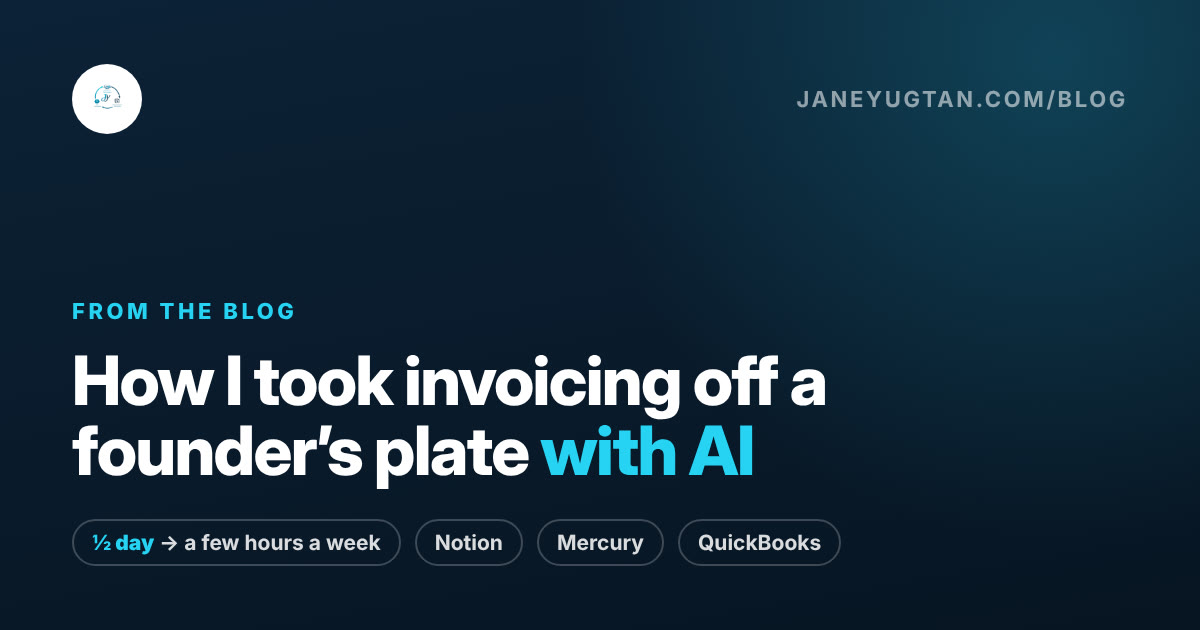
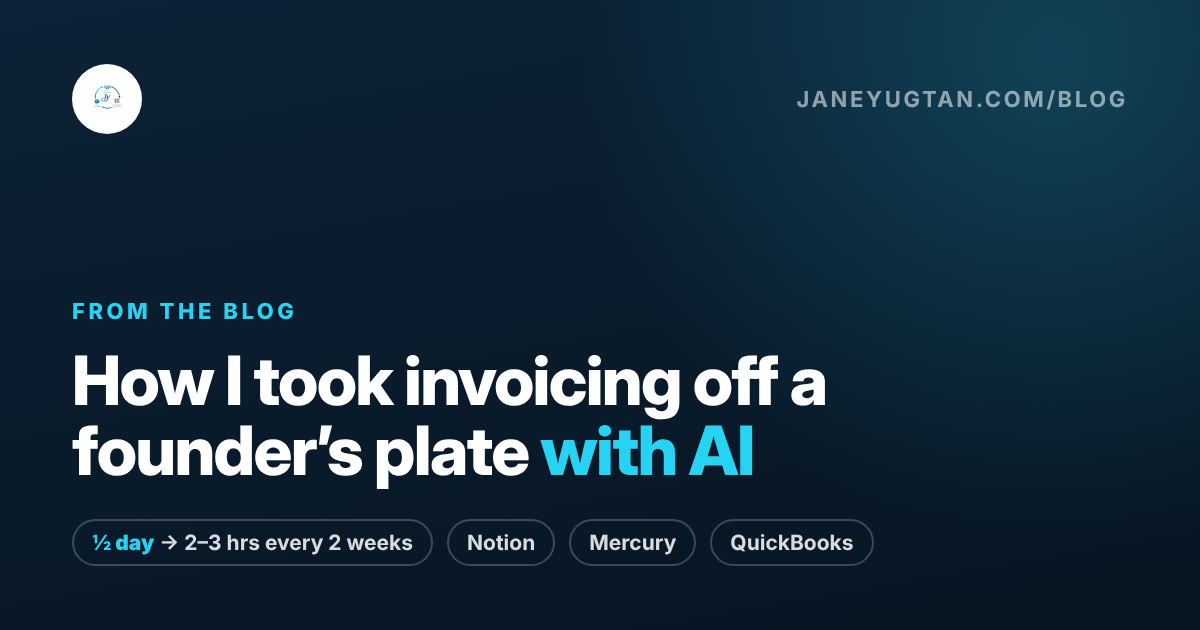
Invoicing result: 2-3 hours every two weeks
Corrects "a few hours a week" everywhere: homepage results card, the
Melanson panel and case study, the blog post (text, meta descriptions,
cover image), the blog list, and the homepage blog card. Invoicing is
now handled by Jane in 2-3 hours every two weeks on the retainer.

Claude-Session: https://claude.ai/code/session_01A5BLjqAU1UR9mV3dSc3XYY

Changed region(s): [[0.1233, 0.8143, 0.7092, 0.9048]]

diff --git a/index.html b/index.html
@@ -646,8 +646,8 @@ body{display:flex;flex-direction:column;height:100dvh;overflow:hidden}
 </div>
 <div class="roi-card price">
 <div class="roi-k">What I did for one founder</div>
-<div class="roi-price" style="font-size:34px;">&frac12; day &rarr; a few hours <small>a week</small></div>
-<p>A design consultancy founder was spending up to half a day on invoicing. I built one invoicing tracker and schedule, matched every client to the right QuickBooks record, then added Claude to build and schedule each invoice for my review. Overdue invoices now get reminders on their own.</p>
+<div class="roi-price" style="font-size:34px;">&frac12; day &rarr; 2&ndash;3 hours <small>every two weeks</small></div>
+<p>A design consultancy founder was spending up to half a day on invoicing. I built one invoicing tracker and schedule, matched every client to the right QuickBooks record, then added Claude to build and schedule each invoice for my review. Now I handle invoicing and reminders in 2&ndash;3 hours every two weeks.</p>
 <p class="hand-note">his time back for design work and clients &#10003;</p>
 </div>
 <div class="roi-proof"><strong>See the full story:</strong> <a href="#proj-melanson">the live case study</a> &middot; <a href="/blog/how-i-took-invoicing-off-a-founders-plate/">the blog post &rarr;</a></div>
@@ -795,7 +795,7 @@ h.addEventListener('input',calc);calc();
 <div style="background:#eef6fc;border-radius:12px;padding:10px 8px;text-align:center;"><div style="font-size:18px;font-weight:800;color:var(--blue);">1st &amp; 15th</div><div style="font-size:10px;color:var(--muted);margin-top:2px;">Contractor pay runs, tracked</div></div>
 <div style="background:#eef6fc;border-radius:12px;padding:10px 8px;text-align:center;"><div style="font-size:18px;font-weight:800;color:var(--blue);">0</div><div style="font-size:10px;color:var(--muted);margin-top:2px;">Manual reports needed</div></div>
 </div>
-<ul class="proj-results"><li class="lbl">Results</li><li>Invoicing went from up to half the founder&rsquo;s day to a few hours a week, with Claude building and scheduling invoices for my review</li><li>One invoicing tracker replaced a three-touch process</li><li>Invoices matched to the right QuickBooks customer; contractor pay runs on the 1st and 15th</li><li>The build became an ongoing OBM partnership</li></ul>
+<ul class="proj-results"><li class="lbl">Results</li><li>Invoicing went from up to half the founder&rsquo;s day to 2&ndash;3 hours of my time every two weeks, with Claude building and scheduling invoices for my review</li><li>One invoicing tracker replaced a three-touch process</li><li>Invoices matched to the right QuickBooks customer; contractor pay runs on the 1st and 15th</li><li>The build became an ongoing OBM partnership</li></ul>
 <div class="tag-row"><span class="tag">Financial Ops</span><span class="tag">QuickBooks + Mercury</span><span class="tag">Slack + Typeform</span><span class="tag">AI + Automation</span><span class="tag">Notion Systems</span></div>
 </div>
 <div style="border-top:1px solid var(--line);background:#fff;">
@@ -874,7 +874,7 @@ h.addEventListener('input',calc);calc();
 <p class="section-subtitle">Notes on operations, delivery, and growing from VA to OBM.</p>
 <p class="hand-note">fresh from my desk &#9998;</p>
 <div class="blog-grid">
-<a class="blog-card taped tilt-r" data-drift="-12" href="/blog/how-i-took-invoicing-off-a-founders-plate/"><i class="tape r" aria-hidden="true"></i><time datetime="2026-11-25">November 25, 2026</time><h3>How I took invoicing off a founder&rsquo;s plate with AI</h3><p>Up to half a day of invoicing, down to a few hours a week, with a human still in the loop.</p><span class="read">Read the post</span></a>
+<a class="blog-card taped tilt-r" data-drift="-12" href="/blog/how-i-took-invoicing-off-a-founders-plate/"><i class="tape r" aria-hidden="true"></i><time datetime="2026-11-25">November 25, 2026</time><h3>How I took invoicing off a founder&rsquo;s plate with AI</h3><p>Up to half a day of invoicing, down to 2&ndash;3 hours every two weeks, with a human still in the loop.</p><span class="read">Read the post</span></a>
 <a class="blog-card taped tilt-l" data-drift="12" href="/blog/how-my-obm-business-started/"><i class="tape" aria-hidden="true"></i><time datetime="2026-11-19">November 19, 2026</time><h3>How my OBM business started</h3><p>One portfolio, four clients, and the moment my OBM offer finally took shape.</p><span class="read">Read the post</span></a>
 <a class="blog-card taped tilt-r" data-drift="-12" href="/blog/signs-your-agency-needs-an-obm-not-a-va/"><i class="tape r" aria-hidden="true"></i><time datetime="2026-11-12">November 12, 2026</time><h3>Signs your agency needs an OBM, not a VA</h3><p>Three core mistakes founders and agency owners make when they hire a VA but actually need an OBM.</p><span class="read">Read the post</span></a>
 </div>

diff --git a/blog/how-i-took-invoicing-off-a-founders-plate/index.html b/blog/how-i-took-invoicing-off-a-founders-plate/index.html
@@ -4,12 +4,12 @@
 <meta charset="utf-8">
 <meta name="viewport" content="width=device-width, initial-scale=1">
 <title>How I took invoicing off a founder’s plate with AI | Jane Yugtan</title>
-<meta name="description" content="A design consultancy founder spent up to half his day on invoices. Here is the system and the Claude, Mercury, and QuickBooks automation that turned it into a few hours a week.">
+<meta name="description" content="A design consultancy founder spent up to half his day on invoices. Here is the system and the Claude, Mercury, and QuickBooks automation that turned it into 2–3 hours every two weeks.">
 <link rel="canonical" href="https://janeyugtan.com/blog/how-i-took-invoicing-off-a-founders-plate/">
 <meta name="author" content="Jane Yugtan">
 <meta property="og:type" content="article">
 <meta property="og:title" content="How I took invoicing off a founder’s plate with AI">
-<meta property="og:description" content="Up to half a day of invoicing, down to a few hours a week, with a human still in the loop.">
+<meta property="og:description" content="Up to half a day of invoicing, down to 2–3 hours every two weeks, with a human still in the loop.">
 <meta property="og:url" content="https://janeyugtan.com/blog/how-i-took-invoicing-off-a-founders-plate/">
 <meta property="og:site_name" content="Jane Yugtan">
 <meta property="article:published_time" content="2026-11-25">
@@ -18,7 +18,7 @@
 <meta property="og:image:height" content="630">
 <meta name="twitter:card" content="summary_large_image">
 <meta name="twitter:title" content="How I took invoicing off a founder’s plate with AI">
-<meta name="twitter:description" content="Up to half a day of invoicing, down to a few hours a week, with a human still in the loop.">
+<meta name="twitter:description" content="Up to half a day of invoicing, down to 2–3 hours every two weeks, with a human still in the loop.">
 <meta name="twitter:image" content="https://janeyugtan.com/blog/how-i-took-invoicing-off-a-founders-plate/cover.jpg">
 <script type="application/ld+json">
 {"@context":"https://schema.org","@type":"BlogPosting","headline":"How I took invoicing off a founder’s plate with AI","author":{"@type":"Person","name":"Jane Yugtan","url":"https://janeyugtan.com"},"datePublished":"2026-11-25","dateModified":"2026-11-25","image":"https://janeyugtan.com/blog/how-i-took-invoicing-off-a-founders-plate/cover.jpg","publisher":{"@type":"Person","name":"Jane Yugtan","url":"https://janeyugtan.com"},"mainEntityOfPage":"https://janeyugtan.com/blog/how-i-took-invoicing-off-a-founders-plate/"}
@@ -238,7 +238,7 @@
   <p>I stay in the loop. I review every invoice before it goes out, and I make the judgment calls, like which overdue invoice needs a personal follow-up instead of another reminder.</p>
 
   <h2>The result</h2>
-  <p>Invoicing went from up to half of the founder&rsquo;s day to a few hours a week. Overdue invoices get reminders automatically instead of being forgotten. And he has his time back for design work and his clients.</p>
+  <p>Invoicing used to take up to half of the founder&rsquo;s day. Now I handle it, processing invoices and setting reminders, in 2&ndash;3 hours every two weeks as part of my retainer. Overdue invoices get reminders automatically instead of being forgotten. And he has his time back for design work and his clients.</p>
 
   <h2>If you&rsquo;re still doing this yourself</h2>
   <p>Three places to start:</p>

diff --git a/melanson-case-study.html b/melanson-case-study.html
@@ -16,7 +16,7 @@
 <h1 class="title">Operations HQ</h1>
 <p class="sub">Design consultancy &middot; ongoing OBM partnership &middot; Notion + QuickBooks + Mercury + Slack + Typeform + Claude &middot; designed by Jane Yugtan</p>
 <span class="engage partner">🤝 Build + ongoing OBM partnership</span>
-<section class="results-box reveal" aria-label="Results"><h2>Results</h2><ul><li>Invoicing went from up to half of the founder&rsquo;s day to a few hours a week, with Claude building and scheduling invoices for review</li><li>Overdue invoices get automatic reminders instead of being forgotten</li><li>One invoicing tracker replaced a three-touch process (design file &rarr; QuickBooks &rarr; spreadsheet)</li><li>Every invoice tied to its client, project, and proposal, and matched to the right QuickBooks customer and invoice number</li><li>Contractor bills organized into 1st and 15th pay runs, with costs adding up against each project&rsquo;s budget</li><li>Supplier commissions checked against what actually arrived in Mercury, with differences flagged</li><li>The build became an ongoing OBM partnership: I now run the system and operations alongside the founder</li></ul></section>
+<section class="results-box reveal" aria-label="Results"><h2>Results</h2><ul><li>Invoicing went from up to half of the founder&rsquo;s day to 2&ndash;3 hours of my time every two weeks, with Claude building and scheduling invoices for review</li><li>Overdue invoices get automatic reminders instead of being forgotten</li><li>One invoicing tracker replaced a three-touch process (design file &rarr; QuickBooks &rarr; spreadsheet)</li><li>Every invoice tied to its client, project, and proposal, and matched to the right QuickBooks customer and invoice number</li><li>Contractor bills organized into 1st and 15th pay runs, with costs adding up against each project&rsquo;s budget</li><li>Supplier commissions checked against what actually arrived in Mercury, with differences flagged</li><li>The build became an ongoing OBM partnership: I now run the system and operations alongside the founder</li></ul></section>
 
 <div class="callout blue reveal"><span class="ci">🔗</span><div><b>One source of truth, connected.</b> Intake, projects, invoices, payments, and team updates all meet here, so the founder stops re-typing the same numbers into four tools.</div></div>
 

diff --git a/blog/index.html b/blog/index.html
@@ -158,7 +158,7 @@
   <a class="post" href="/blog/how-i-took-invoicing-off-a-founders-plate/">
     <time datetime="2026-11-25">November 25, 2026</time>
     <h2>How I took invoicing off a founder&rsquo;s plate with AI</h2>
-    <p>Up to half a day of invoicing, down to a few hours a week, with a human still in the loop.</p>
+    <p>Up to half a day of invoicing, down to 2&ndash;3 hours every two weeks, with a human still in the loop.</p>
   </a>
   <a class="post" href="/blog/how-my-obm-business-started/">
     <time datetime="2026-11-19">November 19, 2026</time>
